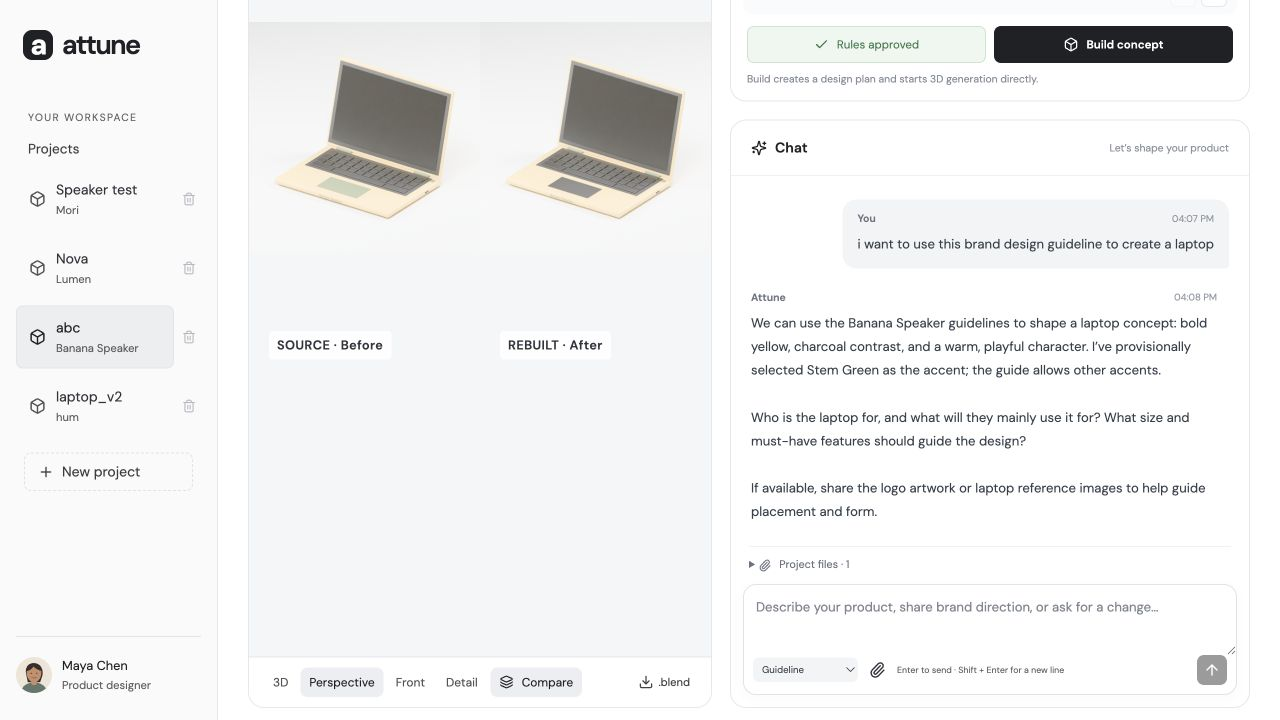
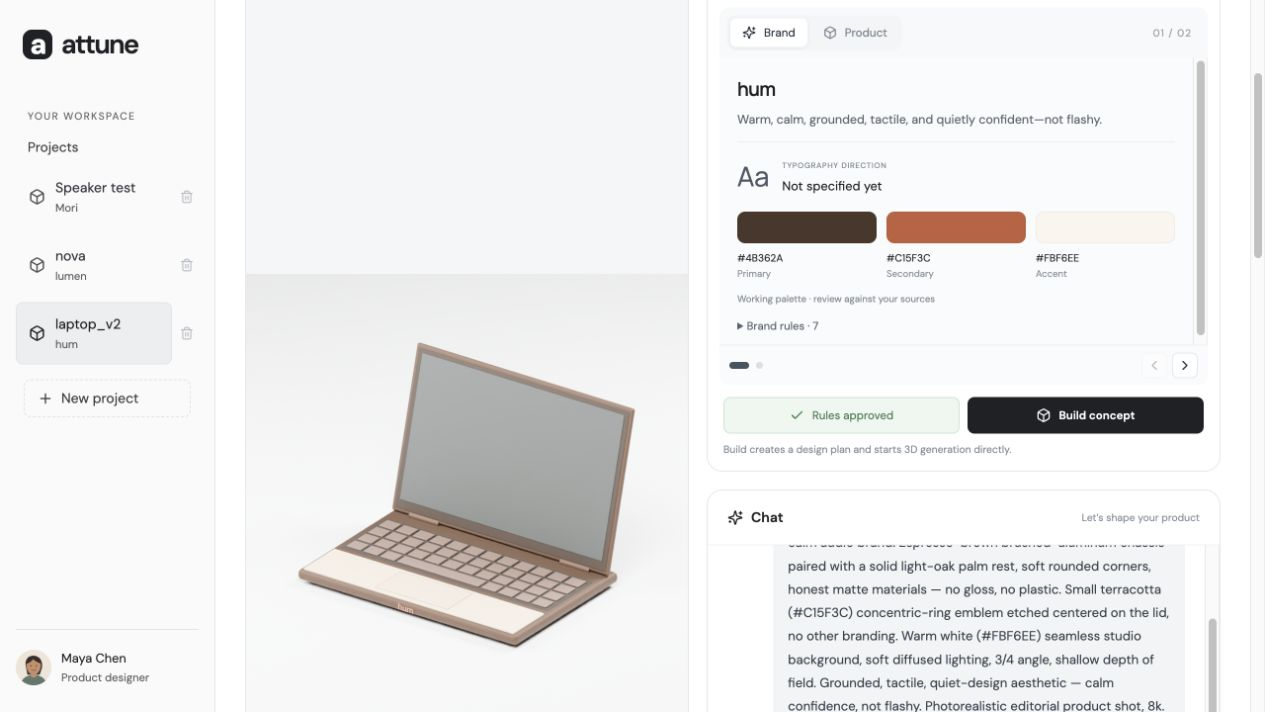
Focus README on brand-aware generation and refresh workflow screenshots

diff --git a/README.md b/README.md
@@ -1,32 +1,44 @@
-# Attune — Brand-aware 3D product concepts
+# Attune — Generate 3D products for your brand
 
-Attune is a local design workspace that turns brand guidelines and a conversational product brief into an editable Blender concept. Designers review the brand direction, build a concept, and evaluate version-specific feedback before approving a rebuild.
+Attune turns brand guidelines and a conversational product brief into an editable 3D product concept. Instead of asking only “generate a laptop,” a designer can ask “generate a laptop for our brand.”
 
-The current implementation supports declarative product components rather than a speaker-only template. It has been exercised locally with speakers, portable chargers, and a laptop. These are visual concepts, not production CAD or validated engineering designs.
+**The current MVP focuses on one core feature: brand-aware 3D generation.** Teammate feedback supports the same design-and-iteration workflow: the designer reviews suggestions, decides which to apply, and approves a new version. It is not a separate, fully built collaboration platform.
+
+## The workflow
+
+1. **Share your direction.** Upload brand guidelines, a logo, references or a moodboard, and describe the product in Chat.
+2. **Review the understanding.** Attune organizes the brand palette, typography, rules and product brief into cards. Clarify the direction through Chat, then approve the rules.
+3. **Generate a concept.** Click Build concept to create an editable Blender scene, interactive 3D preview and three rendered views.
+4. **Evaluate teammate feedback.** Review comments with names and avatars. Approve suggestions you want to include and remove those you do not want to apply.
+5. **Decide whether to iterate.** Click Redesign to see the proposed changes. Only accepted comments inform the plan; conflicting or unsupported requests block rebuilding. Click Rebuild when you agree with the summary.
+6. **Compare versions.** Inspect the new concept against its source and open the history to see what changed. The original stays saved.
+
+A comment is a suggestion, not permission to edit. No feedback-driven model change happens until the designer presses **Rebuild**. For personal revisions, designers can update the direction in Chat and generate another concept.
 
 ## Screenshots
 
-Actual screenshots from the local laptop example. Reviewer/profile identities are fictional, and example projects are not included in a fresh checkout.
+Fresh captures of the local **hum laptop** example. These show the actual interface; reviewer names and avatars are fictional demo identities. Example projects and comments are local data, not bundled with a fresh checkout.
 
-**Concept comparison and Chat** — review the original and rebuilt laptop alongside the conversation that defines the product.
+**Generate a product from brand context** — the laptop concept alongside hum’s palette, design direction and Chat.
 
-![Laptop before-and-after comparison with project Chat](docs/screenshots/laptop-workspace.png)
+![Generated hum laptop with brand understanding and Chat](docs/screenshots/laptop-workspace.png)
 
-**Brand understanding** — source-informed direction, typography and palette, with a compact rebuild change summary.
+**Choose which feedback to apply** — reviewer comments retain their Approve/Remove decisions before the designer requests a redesign.
 
-![Brand understanding and verified trackpad color change](docs/screenshots/brand-understanding.png)
+![Teammate feedback with reviewer avatars and approved and removed comments](docs/screenshots/team-feedback.png)
 
-## What works today
+## What is implemented
 
-- Separate projects with their own sources, conversation, rules, concept versions, and feedback. Project deletion hides the project while retaining local data.
-- Chat-based intake with queued guideline, logo, reference, and moodboard attachments. Files are submitted only when Send is pressed; Enter sends and Shift+Enter inserts a newline.
-- Brand/Product summary cards with palette, typography, brief, constraints, and source-attributed rules. New projects start without seeded brand content.
-- Direct **Review & approve rules → Build concept** actions, with preparation and rendering indicators.
-- Interactive GLB, front/perspective/detail renders, downloadable `.blend`, source comparison, and concept history with expandable changes.
-- **Team feedback:** Approve/Remove decisions, accepted-comment redesign planning, a change-summary dialog, and explicit **Rebuild** approval.
-- Restricted component edits with before/after verification and preservation of the source scene.
+- Separate projects with saved sources, conversations, rules, versions and feedback.
+- Queued uploads that are sent only after Send, with immediate composer clearing and visible waiting states.
+- Brand/Product understanding cards and direct rule approval and concept generation.
+- Component-based 3D concepts, a GLB viewer, three renders and downloadable `.blend` files.
+- Comment decisions, accepted-feedback planning, explicit rebuild approval and verification of supported edits.
+- Before/after comparison and expandable concept history.
 
-Team feedback currently uses locally stored comments and optional sample reviewer names/illustrated avatars. There is no teammate login, publishing workflow, invitation, remote comment submission UI, or role-based authorization. The sidebar identity is a fictional presentation profile.
+**Feedback scope:** the review-and-redesign flow works with locally stored comments. For the demo, teammate comments are preloaded samples with names and avatars. There is no teammate login, invitation, publishing workflow or reviewer-facing comment form yet. The backend supports creating local comments, but the full teammate submission experience remains future work.
+
+The generator has been exercised locally with speakers, portable chargers and laptops. It creates editable visual concepts from geometric components; it does not produce production CAD or validate engineering performance. Broader capabilities discussed in the [PRD](docs/PRD.md) should not be read as completed features.
 
 ## Local setup
 
